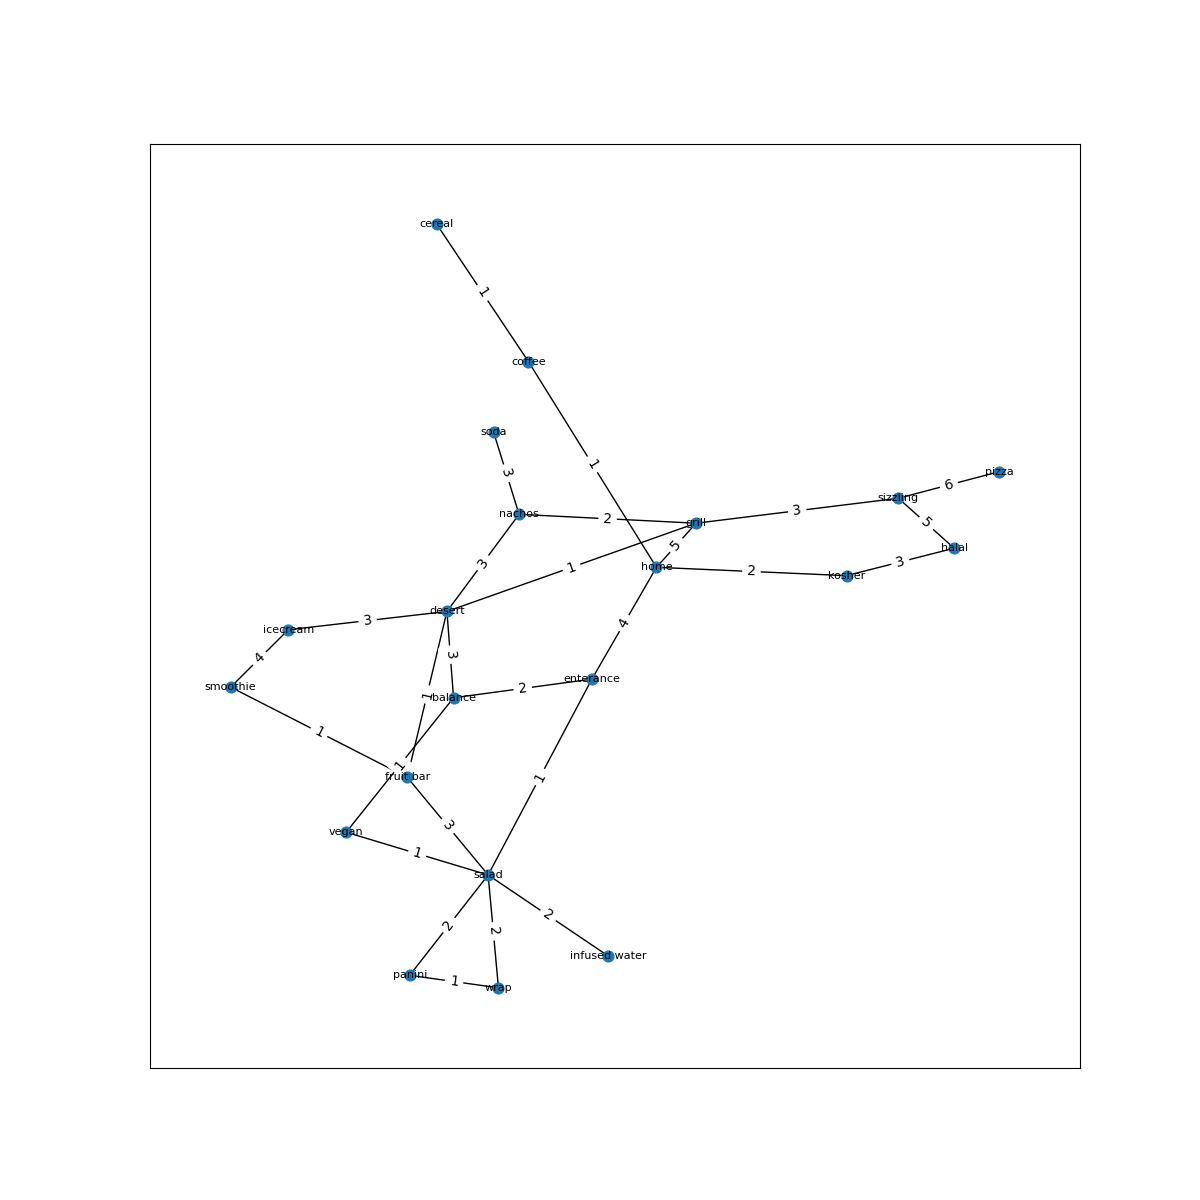
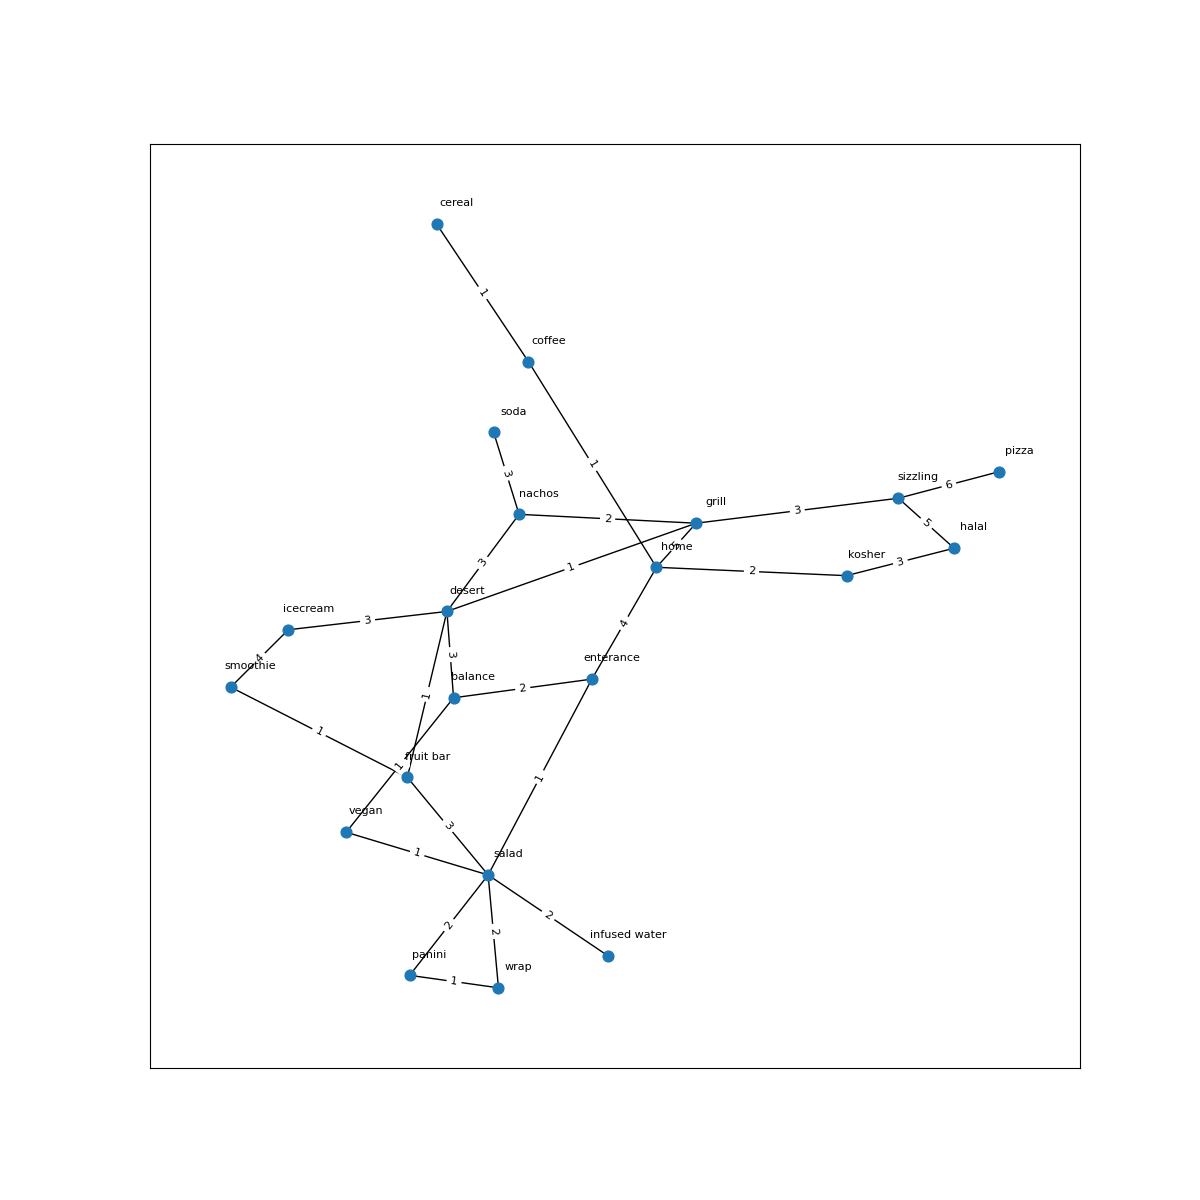
adjusted labels

diff --git a/dijkstras.py b/dijkstras.py
@@ -48,10 +48,20 @@ G1 = nx.from_dict_of_dicts(graph1)
 pos = nx.spring_layout(G1, seed=4)
 labels = nx.get_edge_attributes(G1,'weight')
 plt.figure(1,figsize=(12,12)) 
-nx.draw_networkx(G1,pos, node_size=60, font_size=8)
-nx.draw_networkx_edge_labels(G1,pos,edge_labels=labels)
+
+pos_higher = {}
+y_off = 0.05  # offset on the y axis
+x_off = 0.03  # offset on the x axis
+
+for k, v in pos.items():
+    pos_higher[k] = (v[0]+x_off, v[1]+y_off)
+
+nx.draw_networkx(G1,pos, node_size=60, with_labels=False)
+nx.draw_networkx_labels(G1, pos_higher, font_size=8)
+nx.draw_networkx_edge_labels(G1,pos,edge_labels=labels, font_size=8)
 plt.savefig("initial_graph1.png")
-# plt.show()
+
+#plt.show()
 
 
 H1 = nx.shortest_path(G1, source='enterance', target='nachos', weight='weight', method='dijkstra')

diff --git a/index.md b/index.md
@@ -25,6 +25,9 @@ import networkx as nx
 import matplotlib.pyplot as plt
 ```
 
+## Additional sources
+https://stackoverflow.com/questions/14547388/networkx-in-python-draw-node-attributes-as-labels-outside-the-node 
+
 ### Minimal Brick Walkways
 
 **Informal Description**: 
@@ -145,8 +148,17 @@ G1 = nx.from_dict_of_dicts(graph1)
 pos = nx.spring_layout(G1, seed=4)
 labels = nx.get_edge_attributes(G1,'weight')
 plt.figure(1,figsize=(12,12)) 
-nx.draw_networkx(G1,pos, node_size=60, font_size=8)
-nx.draw_networkx_edge_labels(G1,pos,edge_labels=labels)
+
+pos_higher = {}
+y_off = 0.04  # offset on the y axis
+x_off = 0.03  # offset on the x axis
+
+for k, v in pos.items():
+    pos_higher[k] = (v[0]+x_off, v[1]+y_off)
+
+nx.draw_networkx(G1,pos, node_size=60, with_labels=False)
+nx.draw_networkx_labels(G1, pos_higher, font_size=8)
+nx.draw_networkx_edge_labels(G1,pos,edge_labels=labels, font_size=8)
 plt.savefig("initial_graph1.png")
 ```
 
